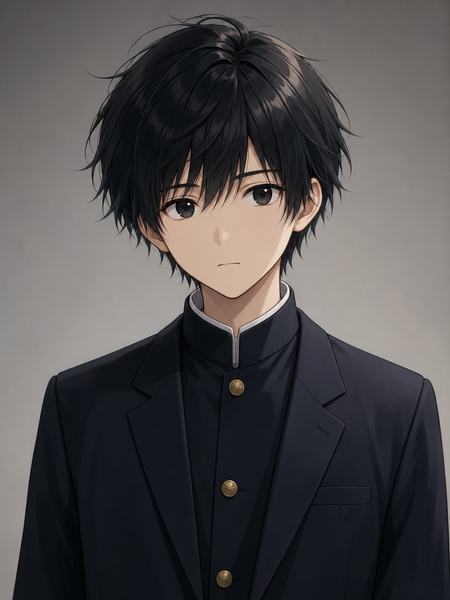
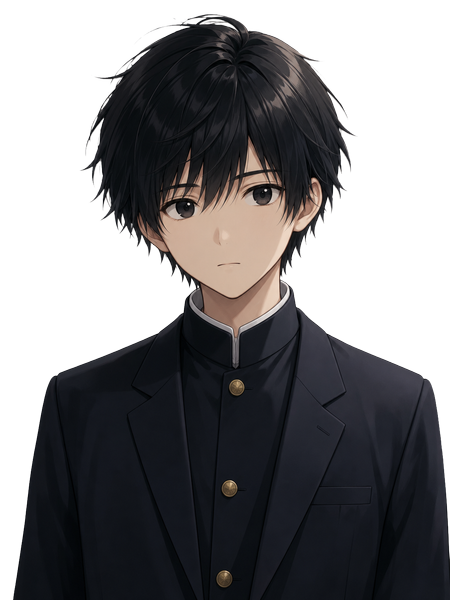
feat(assets): make visual portraits transparent

diff --git a/packages/e2e/tests/reader-visual.spec.ts b/packages/e2e/tests/reader-visual.spec.ts
@@ -4,7 +4,7 @@ import { VisualReaderPage } from './utils';
 const READER_PATH =
     '/en/reader?story=the_seventh_mirror&scene=ch1_act2&dialogue=';
 const MIO_OBJECT =
-    '**/vn/objects/a930d03b393e3c2c2005018eef18328b2cc1cab5934628f0e6b8237040a2cccb.webp';
+    '**/vn/objects/6556ca83ebbe31cbc236d0c1ce3d544a1d1cfa0ec627852a12e3259feb8ca4c1.webp';
 const SECOND_BACKGROUND_OBJECT =
     '**/vn/objects/8bfdc7f3c41049680918be340114f37ed433763672369c86c84ef620b1d8aaba.webp';
 
